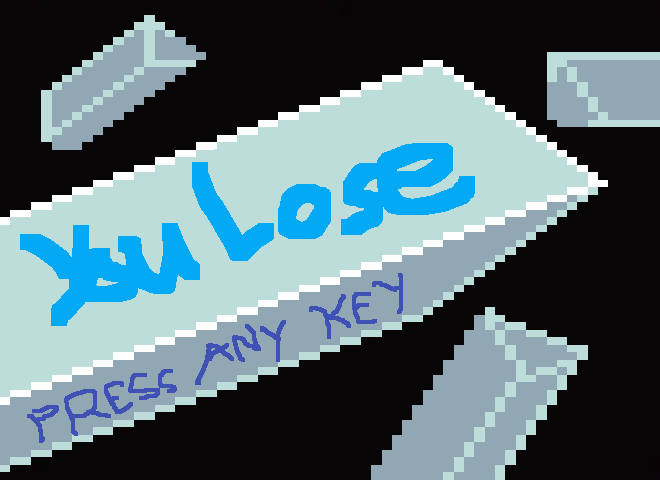
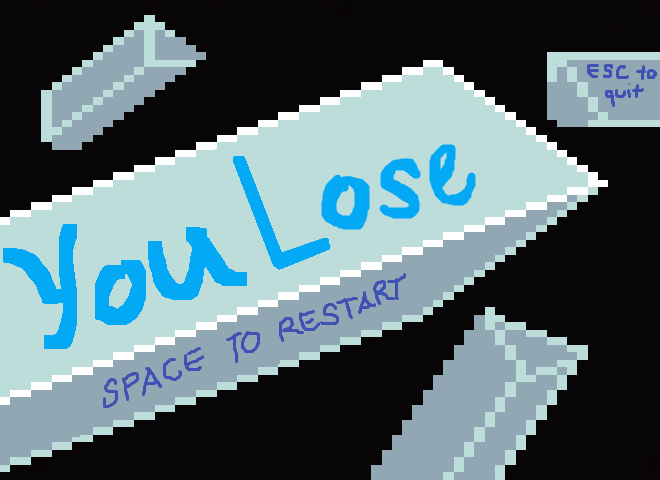
Fixed the restart screen issue.

Changed region(s): [[0.0, 0.2812, 0.7273, 0.75], [0.0303, 0.5625, 0.6364, 0.9375], [0.8788, 0.125, 1.0, 0.2188]]

diff --git a/game.cpp b/game.cpp
@@ -246,7 +246,7 @@ void Game::processEvents(sf::Time deltaTime) {
         quitMenu = true;
     }
 
-    else if ((win || lose) && sf::Event::KeyReleased) {
+    else if ((win || lose) && sf::Event::KeyReleased && event.key.code == sf::Keyboard::Space) {
         win = false;
         lose = false;
         startMenu = false;
@@ -605,9 +605,9 @@ void Game::render() {
     for (int i = 0; i < blackGraveyard.size(); i++) {
         mWindow.draw(*blackGraveyard[i]->sprite);
     }
-
-    if (quitMenu) mWindow.draw(quitBox);
+    
     if (startMenu) mWindow.draw(titleScreen);
     if (win || lose) mWindow.draw(resultScreen);
+    if (quitMenu) mWindow.draw(quitBox);
     mWindow.display();
 }
